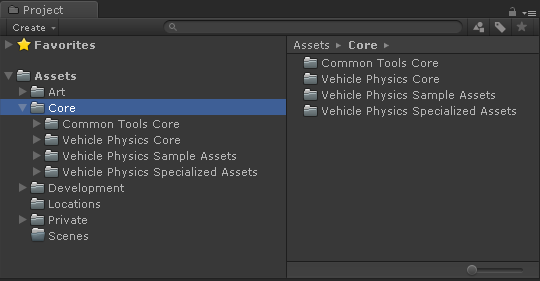
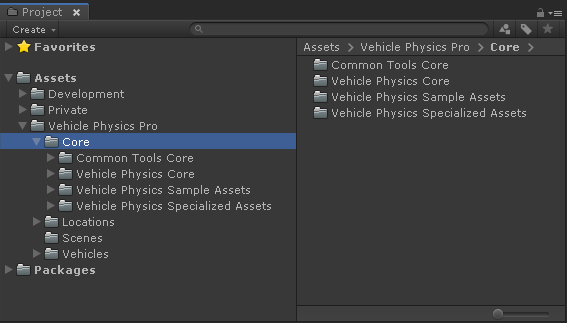
Updated documentation on Enterprise projects
Also added some notes to project settings draft and changed some terminology on the driveline.

Changed region(s): [[0.0, 0.0, 1.0, 0.8541], [0.5333, 0.911, 1.0, 0.9964]]

diff --git a/docs/user-guide/setting-up-vpp.md b/docs/user-guide/setting-up-vpp.md
@@ -116,10 +116,10 @@ Fetch the most recent updates to the example project.
 
 	Enterprise Edition submodules   | Folder
 	--------------------------------|---------
-	[Common Tools Core](http://projects.edy.es/git/edy/common-tools-core.git/shortlog/refs/heads/master?js=1) | `Assets/Core/Common Tools Core`
-	[Vehicle Physics Core](http://projects.edy.es/git/edy/vehicle-physics-core.git/shortlog/refs/heads/master?js=1) | `Assets/Core/Vehicle Physics Core`
-	[Vehicle Physics Sample Assets](http://projects.edy.es/git/edy/vehicle-physics-sample-assets.git/shortlog/refs/heads/master?js=1) (`master` branch) | `Assets/Core/Vehicle Physics Sample Assets`
-	[Vehicle&nbsp;Physics&nbsp;Specialized&nbsp;Assets](http://projects.edy.es/git/edy/vehicle-physics-specialized-assets.git/shortlog/refs/heads/master?js=1) | `Assets/Core/Vehicle Physics Specialized Assets`
+	[Common Tools Core](http://projects.edy.es/git/edy/common-tools-core.git/shortlog/refs/heads/master?js=1) | `Assets/Vehicle Physics Pro/Core/Common Tools Core`
+	[Vehicle Physics Core](http://projects.edy.es/git/edy/vehicle-physics-core.git/shortlog/refs/heads/master?js=1) | `Assets/Vehicle Physics Pro/Core/Vehicle Physics Core`
+	[Vehicle Physics Sample Assets](http://projects.edy.es/git/edy/vehicle-physics-sample-assets.git/shortlog/refs/heads/master?js=1) (`master` branch) | `Assets/Vehicle Physics Pro/Core/Vehicle Physics Sample Assets`
+	[Vehicle&nbsp;Physics&nbsp;Specialized&nbsp;Assets](http://projects.edy.es/git/edy/vehicle-physics-specialized-assets.git/shortlog/refs/heads/master?js=1) | `Assets/Vehicle Physics Pro/Core/Vehicle Physics Specialized Assets`
 
 3.	Now you can open the project in Unity 3D. Proceed to [Getting Started](getting-started.md) for
 	a quick walkthrough.

diff --git a/docs/blocks/driveline.md b/docs/blocks/driveline.md
@@ -60,8 +60,8 @@ Center differential
 :	A center differential connecting the two axle differentials.
 
 Torque splitter
-:	Drive power goes to the first axle. A torque splitter routes part of the power to the second
-	axle.
+:	Drive power goes to the primary axle. A torque splitter routes part of the power to the
+	secondary axle.
 
 H-Drive
 :	Wheels on each side of both axles are linked together. A single center differential connects

diff --git a/docs/user-guide/project-settings.md b/docs/user-guide/project-settings.md
@@ -37,3 +37,8 @@ details) and has a performance costs. It should not be necessary.
 
 Physics.reuseCollisionCallbacks
 
+## Rendering
+
+Example scenes and lighting are configured for Linear color space. A component LightGammaCorrection
+is provided that may be added to the Light component for adjusting the intensity in Gamma color
+space.
